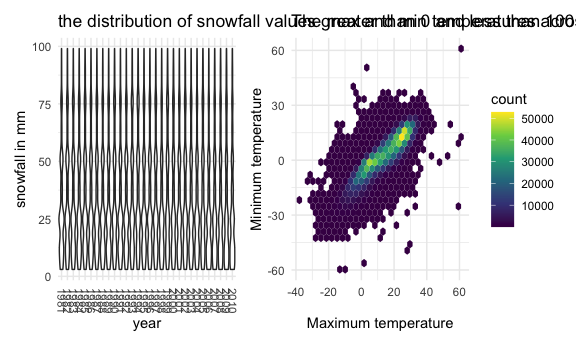
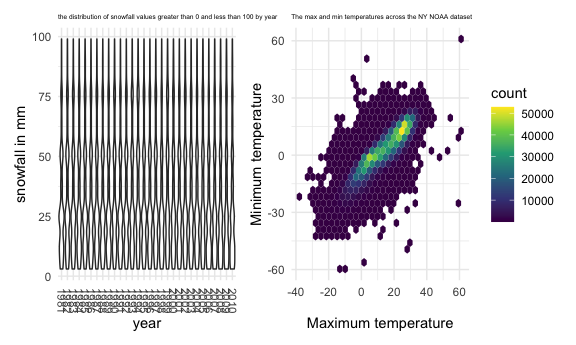
changed the size of the titles one last time

diff --git a/p8105_HW3_rkm2147.md b/p8105_HW3_rkm2147.md
@@ -6,14 +6,14 @@ Ronae McLin rkm2147
 library(tidyverse)
 ```
 
-    ## ── Attaching packages ──────────────────────────────────────── tidyverse 1.3.0 ──
+    ## ── Attaching packages ──────────────────────────── tidyverse 1.3.0 ──
 
     ## ✓ ggplot2 3.3.2     ✓ purrr   0.3.4
     ## ✓ tibble  3.0.1     ✓ dplyr   1.0.0
     ## ✓ tidyr   1.1.0     ✓ stringr 1.4.0
     ## ✓ readr   1.3.1     ✓ forcats 0.5.0
 
-    ## ── Conflicts ─────────────────────────────────────────── tidyverse_conflicts() ──
+    ## ── Conflicts ─────────────────────────────── tidyverse_conflicts() ──
     ## x dplyr::filter() masks stats::filter()
     ## x dplyr::lag()    masks stats::lag()
 
@@ -146,7 +146,7 @@ instacart %>%
 
 # Problem 2
 
-Load data & tidy the data appropriately
+**Load data & tidy the data appropriately**
 
 ``` r
 accel_df = read_csv("./accel_data.csv") %>% 
@@ -184,12 +184,12 @@ accel_df = read_csv("./accel_data.csv") %>%
 year-old male with congesitve heart failure. This data includes the
 variables: week, day\_id, day, minute, value, weekday. The weekday
 variable describes if observations occurred during the weekday (Mon-Fri)
-or during the weekend (Sat-Sun). There are a total of 50400 observations
-for this frame. Observations were collected for a total of 5 weeks.
-There are 1440 minutes in a 24 hour period, so the amount of
+or during the weekend (Sat-Sun). There are a total of 50400 rows of
+observations for this frame. Observations were collected for a total of
+5 weeks. There are 1440 minutes in a 24 hour period, so the amount of
 observations seems appropriate**
 
-Create activity table based on weeks
+*Create activity table based on weeks*
 
 ``` r
 accel_df %>% 
@@ -221,7 +221,7 @@ ggplot(aes(x = minute, y = value, color = day, group = day_id)) + geom_line(alph
     title = "Distribution of activitiy levels over a 24 period for the course of a week",
     x = "minutes",
     y = "activity values"
-  )
+  ) + theme(plot.title = element_text(size = 10))
 ```
 
     ## `geom_smooth()` using method = 'gam' and formula 'y ~ s(x, bs = "cs")'
@@ -247,7 +247,7 @@ and therefore the resulting dataset contains extensive missing data.
 Variables include: id, date, prcp, snow, snwd, tmax, tmin. There are a
 total of 2595176 rows.**
 
-Load data, split the date variable, and make appropriate class changes
+*Load data, split the date variable, and make appropriate class changes*
 
 ``` r
 weather_df = ny_noaa %>% 
@@ -264,7 +264,7 @@ separate(date, into = c("year", "month", "day"))  %>%
   ) 
 ```
 
-Snow fall code chunk
+*Snow fall code chunk*
 
 ``` r
 weather_df %>% 
@@ -292,7 +292,7 @@ weather_df %>%
 since it doesn’t snow all year round in most places due to the
 seasonality of climate.**
 
-Two panel plot
+*Creating a two panel plot*
 
 ``` r
 weather_df %>% 
@@ -334,7 +334,7 @@ weather_df %>%
     title = "The max and min temperatures across the NY NOAA dataset",
     x = "Maximum temperature",
     y = "Minimum temperature"
-  ) + theme(legend.position = "right")
+  ) + theme(legend.position = "right", plot.title = element_text(size = 5))
 ```
 
 ``` r
@@ -347,7 +347,7 @@ snow_plot =
     title = "the distribution of snowfall values greater than 0 and less than 100 by year",
     x = "year",
     y = "snowfall in mm"
-  ) + theme(axis.text.x = element_text(angle = 270, vjust = 0.5, hjust = 1))
+  ) + theme(axis.text.x = element_text(angle = 270, vjust = 0.5, hjust = 1), plot.title = element_text(size = 5))
 ```
 
 ``` r
